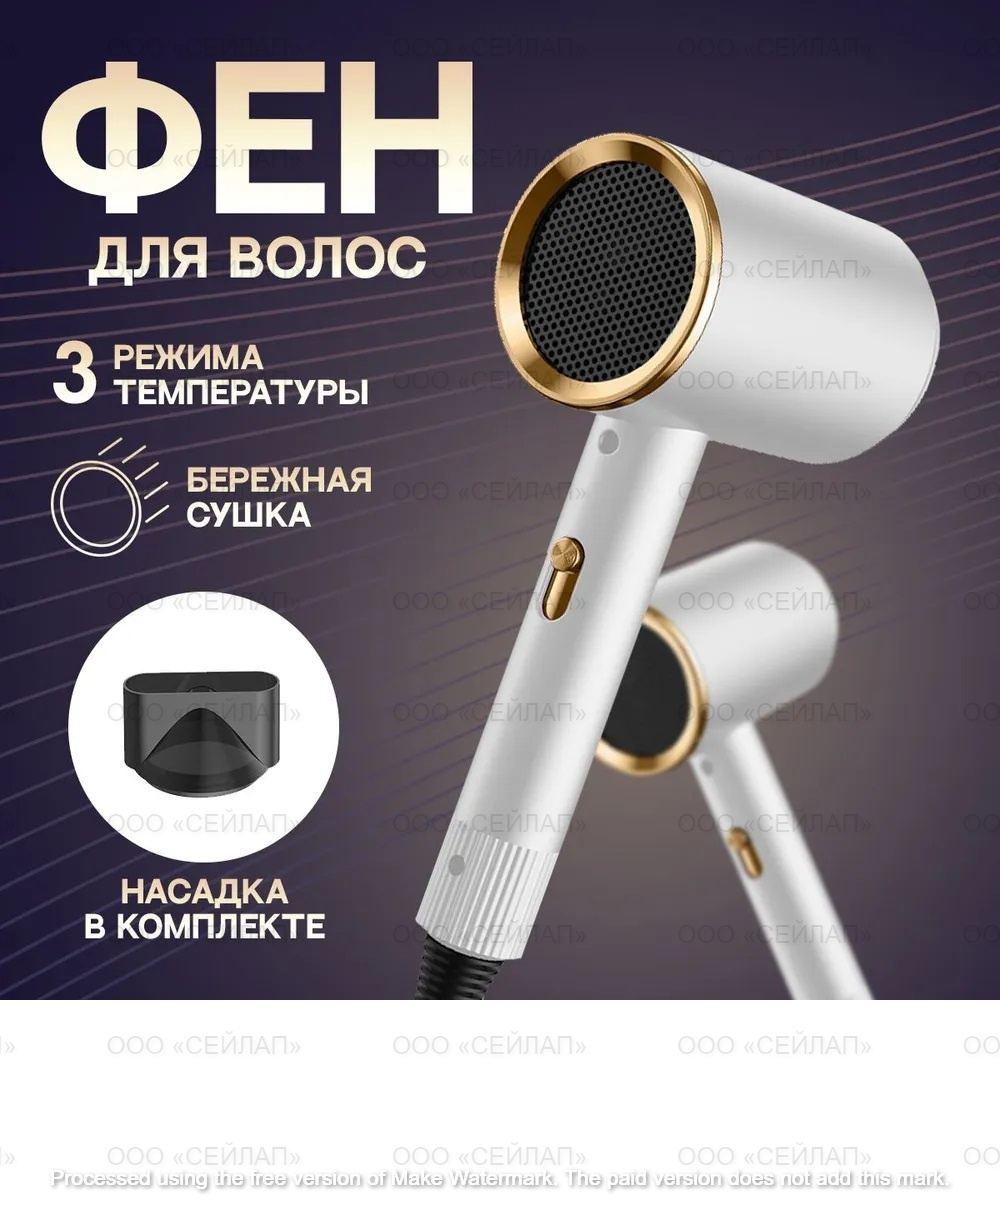
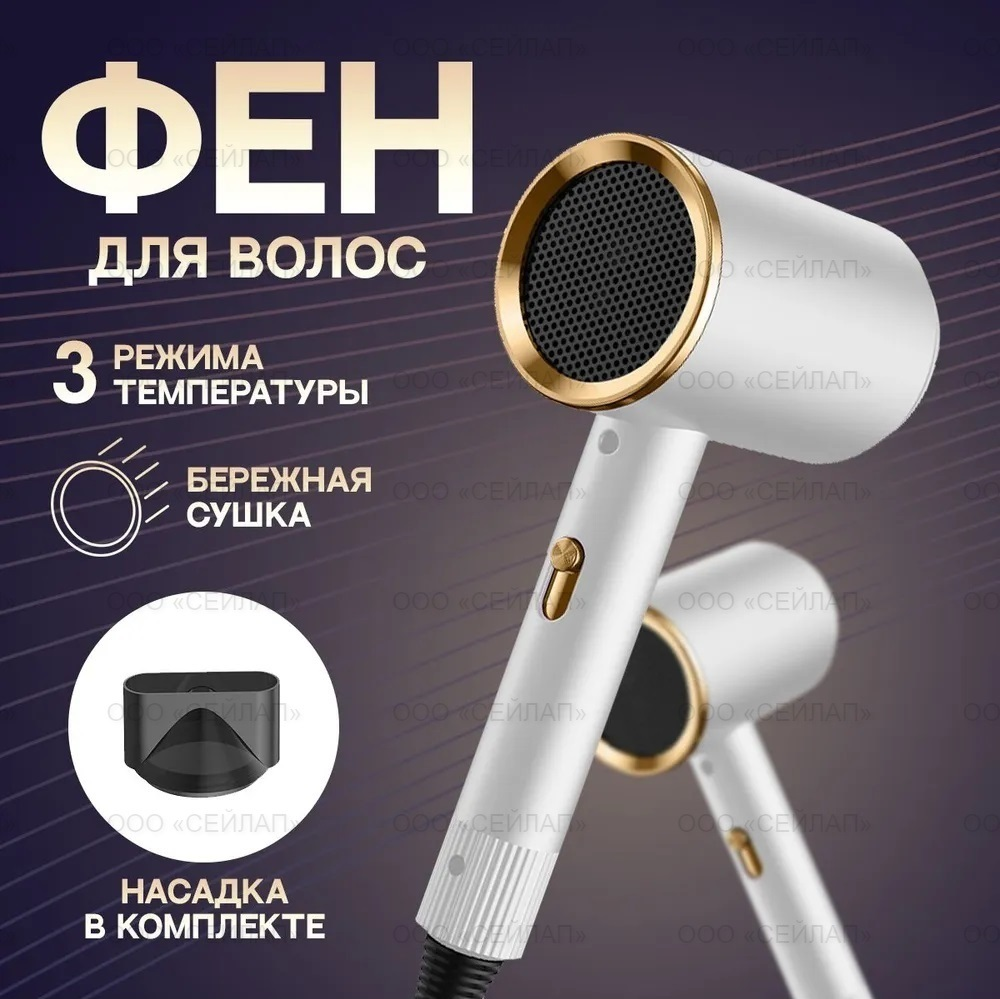
new main photo

diff --git a/index.htm b/index.htm
@@ -118,7 +118,7 @@
                 </div>
             </div>
             <div class="image_block">
-                <div class="offer_image" style="background-image: url(dryer/1.jpg); height: 610px;"></div>
+                <div class="offer_image" style="background-image: url(dryer/4.jpg); height: 600px;"></div>
                 
                 <div class="discount_block">
                     <div class="value"><p>50%</p></div>
@@ -156,7 +156,7 @@
         </header>
         <!-- /header 3 -->
         <!-- video -->
-            <video width="100%" height="600" controls="controls" poster="dryer-old/14.jpg">
+            <video width="100%" height="600" controls="controls" poster="dryer/14.jpg">
                 <source src="video.mp4">
             </video>
         <!-- /video -->
